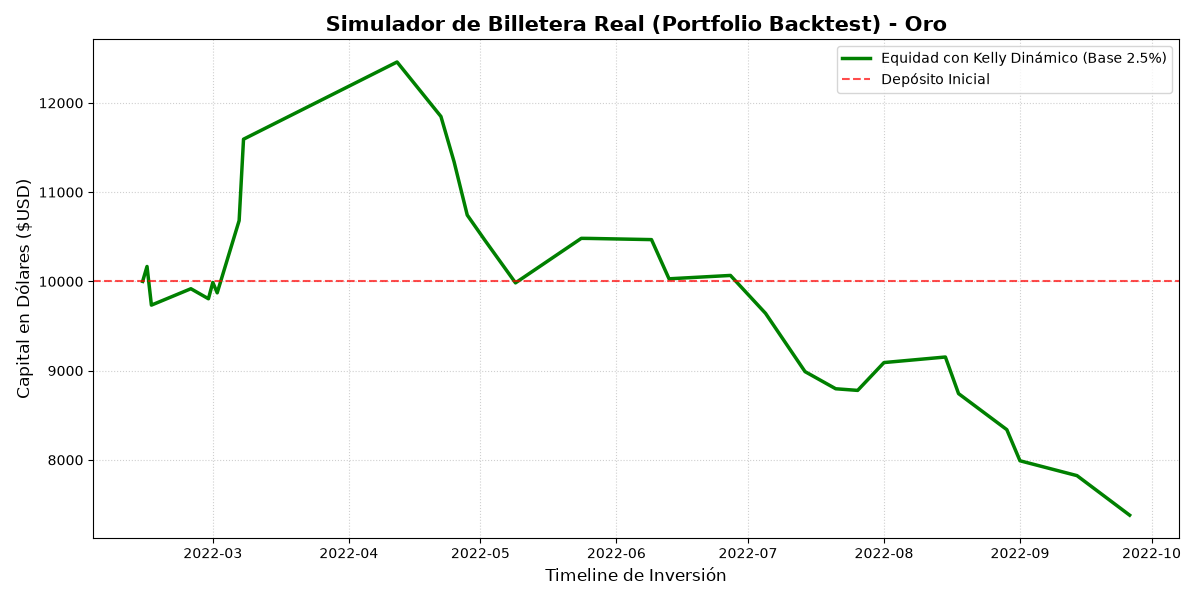
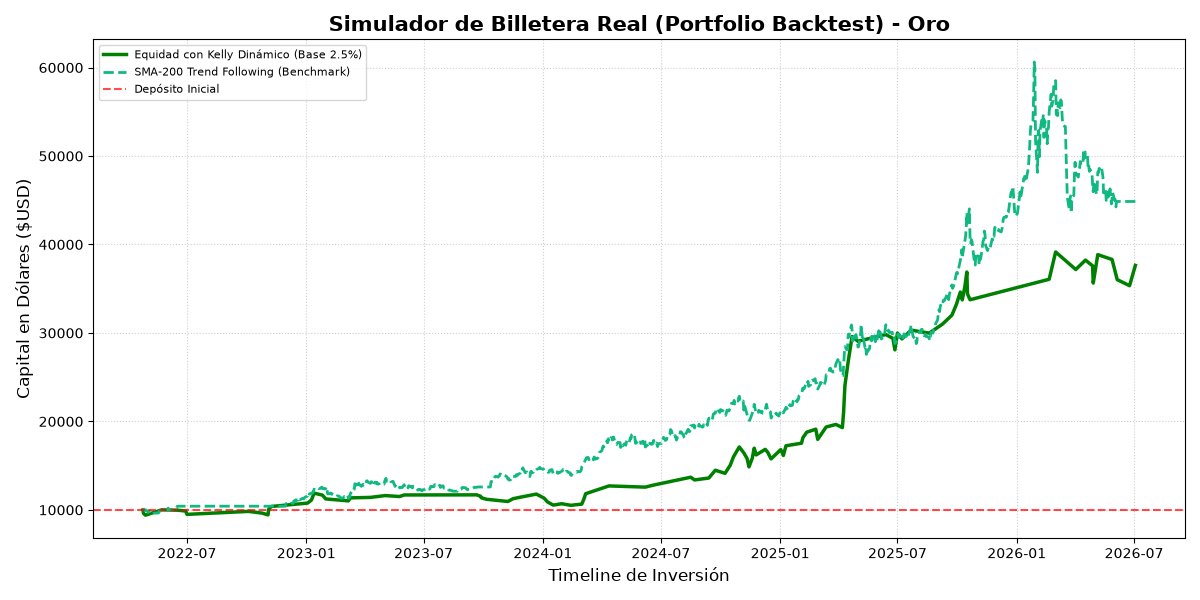
refactor(evaluation): finalize candidate list initialization in backtester and update active asset lists in portfolio evaluation

diff --git a/src/evaluation/backtester.py b/src/evaluation/backtester.py
@@ -904,7 +904,7 @@ def main():
     data_dir = os.path.join(base_dir, "data")
     results_dir = os.path.join(base_dir, "results")
     
-    activos = ["EURUSD_H4", "SP500", "SP500_H4", "Oro", "Oro_H4"] #["EURUSD", "EURUSD_H4", "SP500", "SP500_H4", "Oro", "Oro_H4", "ECH"]
+    activos = ["EURUSD", "EURUSD_H4", "SP500", "SP500_H4", "Oro", "Oro_H4", "ECH"] #["EURUSD", "EURUSD_H4", "SP500", "SP500_H4", "Oro", "Oro_H4", "ECH"]
 
     modelos = ['RANDOM_FOREST', 'XGBOOST', 'LSTM', 'BILSTM', 'ARIMA_LSTM', 'LSTM_RF']
     RIESGO_PCT = 0.025

diff --git a/src/evaluation/portfolio_backtester.py b/src/evaluation/portfolio_backtester.py
@@ -304,7 +304,7 @@ if __name__ == "__main__":
     CAPITAL = 10000.0       # USD en tu broker
     RIESGO_PCT = 0.025       
     
-    activos = ["EURUSD_H4", "SP500", "SP500_H4", "Oro", "Oro_H4"] #["EURUSD", "EURUSD_H4", "SP500", "SP500_H4", "Oro", "Oro_H4", "ECH"]
+    activos = ["EURUSD", "EURUSD_H4", "SP500", "SP500_H4", "Oro", "Oro_H4", "ECH"] #["EURUSD", "EURUSD_H4", "SP500", "SP500_H4", "Oro", "Oro_H4", "ECH"]
 
     
     # 1. Simulación Individual (Silos)
